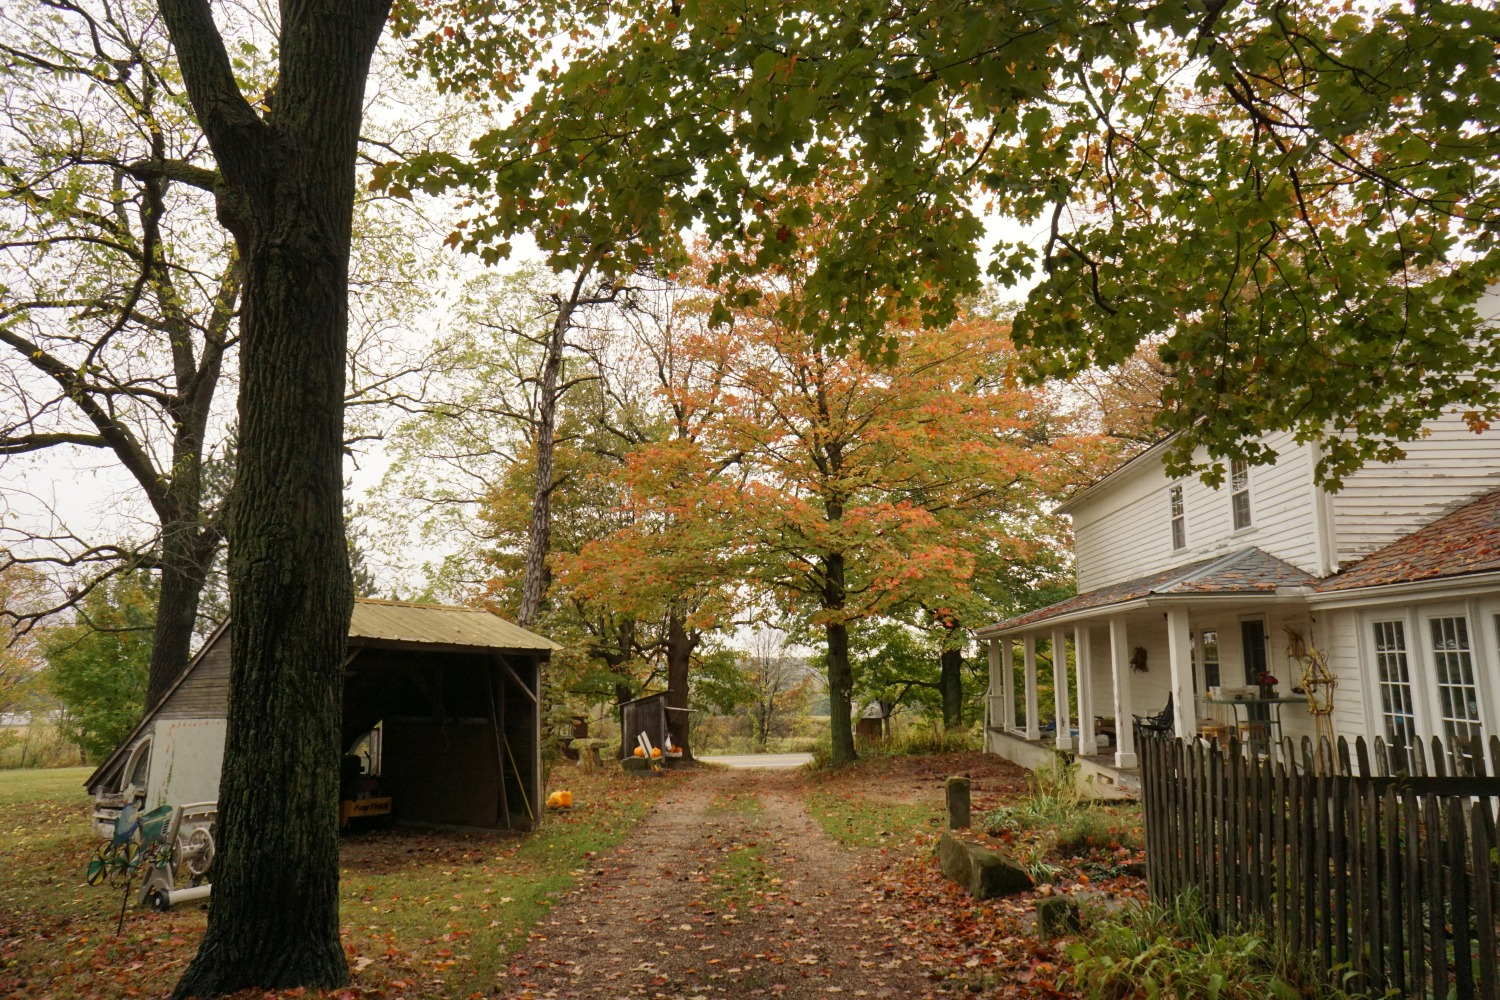
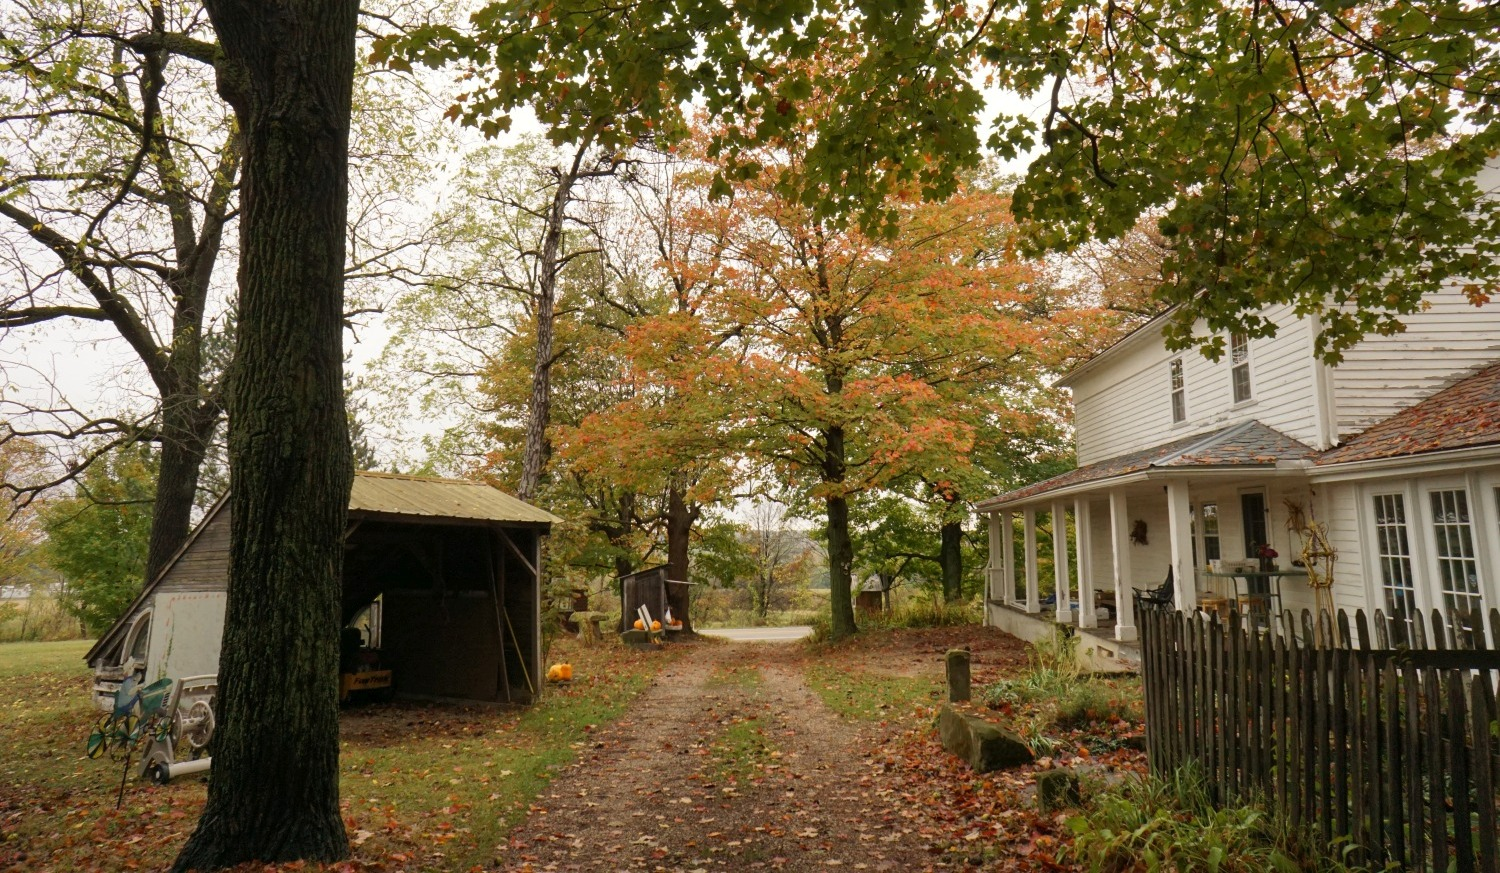
fine-tune posts

diff --git a/src/components/BlogPostIslandContent.vue b/src/components/BlogPostIslandContent.vue
@@ -1,0 +1,27 @@
+<script setup lang="ts">
+import type { MarkdownHeading } from "astro";
+import type { CollectionEntry } from "astro:content";
+import Cordion from "./AccordionWithDefault/Cordion.vue";
+import CordionItem from "./AccordionWithDefault/CordionItem.vue";
+import CordionDefaultItem from "./AccordionWithDefault/CordionDefaultItem.vue";
+
+defineProps<{ entry: CollectionEntry<"blog">; headings: MarkdownHeading[] }>();
+</script>
+
+<template>
+  <Cordion>
+    <CordionDefaultItem>
+      <div class="text-center flex flex-col gap-4">
+        <p>{{ entry.data.tagline }}</p>
+        <p><a class="underline" href="/blog">(back to blog home)</a></p>
+      </div>
+    </CordionDefaultItem>
+    <CordionItem v-if="headings.length > 1" heading="Table of Contents">
+      <ol class="list-decimal pl-5">
+        <li class="my-1 pl-1" v-for="{ text, slug, depth } in headings">
+          <a :href="'#' + slug">{{ text }}</a>
+        </li>
+      </ol>
+    </CordionItem>
+  </Cordion>
+</template>

diff --git a/src/components/NavIsland.vue b/src/components/NavIsland.vue
@@ -34,7 +34,7 @@ defineProps<{ title: string; titleLink?: string; image: string; imageLink?: stri
         <a class="underline" href="/">Home</a> -
         <a class="underline" href="/about">About</a> -
         <a class="underline" href="/projects/">Projects</a> -
-        <a class="underline" href="/blog/">Posts</a>
+        <a class="underline" href="/blog/">Blog</a>
       </p>
     </div>
   </div>

diff --git a/src/content/config.ts b/src/content/config.ts
@@ -24,8 +24,9 @@ const blog = defineCollection({
   schema: z.object({
     title: z.string(),
     tagline: z.string(),
-    image: z.string().optional(),
-    image_alt: z.string().optional(),
+    image: z.string(),
+    image_alt: z.string(),
+    image_style: z.enum(["old", "normal"]).optional(),
     tags: z.array(z.string()),
     date: z.date(),
     date_as_string: z.string().optional(),

diff --git a/src/components/BlogIslandContent.vue b/src/components/BlogIslandContent.vue
@@ -13,9 +13,7 @@ const sortedTags = computed(() =>
 <template>
   <Cordion>
     <CordionDefaultItem>
-      <p class="my-10">
-        I don't know what I'm going to write here! Let's find out together.
-      </p>
+      <p>I don't know what I'm going to write here! Let's find out together.</p>
     </CordionDefaultItem>
 
     <CordionItem heading="Common Tags">

diff --git a/src/components/AccordionWithDefault/CordionItem.vue b/src/components/AccordionWithDefault/CordionItem.vue
@@ -102,7 +102,9 @@ const toggleOpen = () => {
         scrollbarWidth: 'thin',
       }"
     >
-      <slot />
+      <div :class="{ 'min-h-[150px] flex flex-col justify-center': _isDefault }">
+        <slot />
+      </div>
     </div>
   </div>
 </template>

diff --git a/src/scss/content.scss b/src/scss/content.scss
@@ -6,7 +6,13 @@
     }
   }
   & p {
-    @apply my-5;
+    @apply my-4;
+    &:first-child {
+      @apply mt-0;
+    }
+    &:last-child {
+      @apply mb-0;
+    }
   }
   & a {
     @apply underline;

diff --git a/src/content/blog/the-simple-life.md b/src/content/blog/the-simple-life.md
@@ -4,6 +4,7 @@ tagline: What I was doing from 2015 to 2018.
 image: posts/the-simple-life/cover.jpg
 image_alt: A gravel driveway with an old farmhouse on the right side of it and some sheds and trees scattered around. The orange leaves indicate that it's autumn.
 date: 2019-02-23
+image_style: normal
 tags: ["personal", "plants", "long post"]
 ---
 

diff --git a/src/content/blog/natural-numbers.md b/src/content/blog/natural-numbers.md
@@ -2,8 +2,9 @@
 title: The Double Life of Floating Point
 tagline: The real reason you should use whole numbers for prices
 date: 2024-08-31
-image: posts/floating-point/cover.jpg
+image: posts/floating-point/cover-wide.jpg
 image_alt: A clunky old adding machine.
+image_style: normal
 tags: ["computers", "math", "low-effort titles"]
 ---
 
